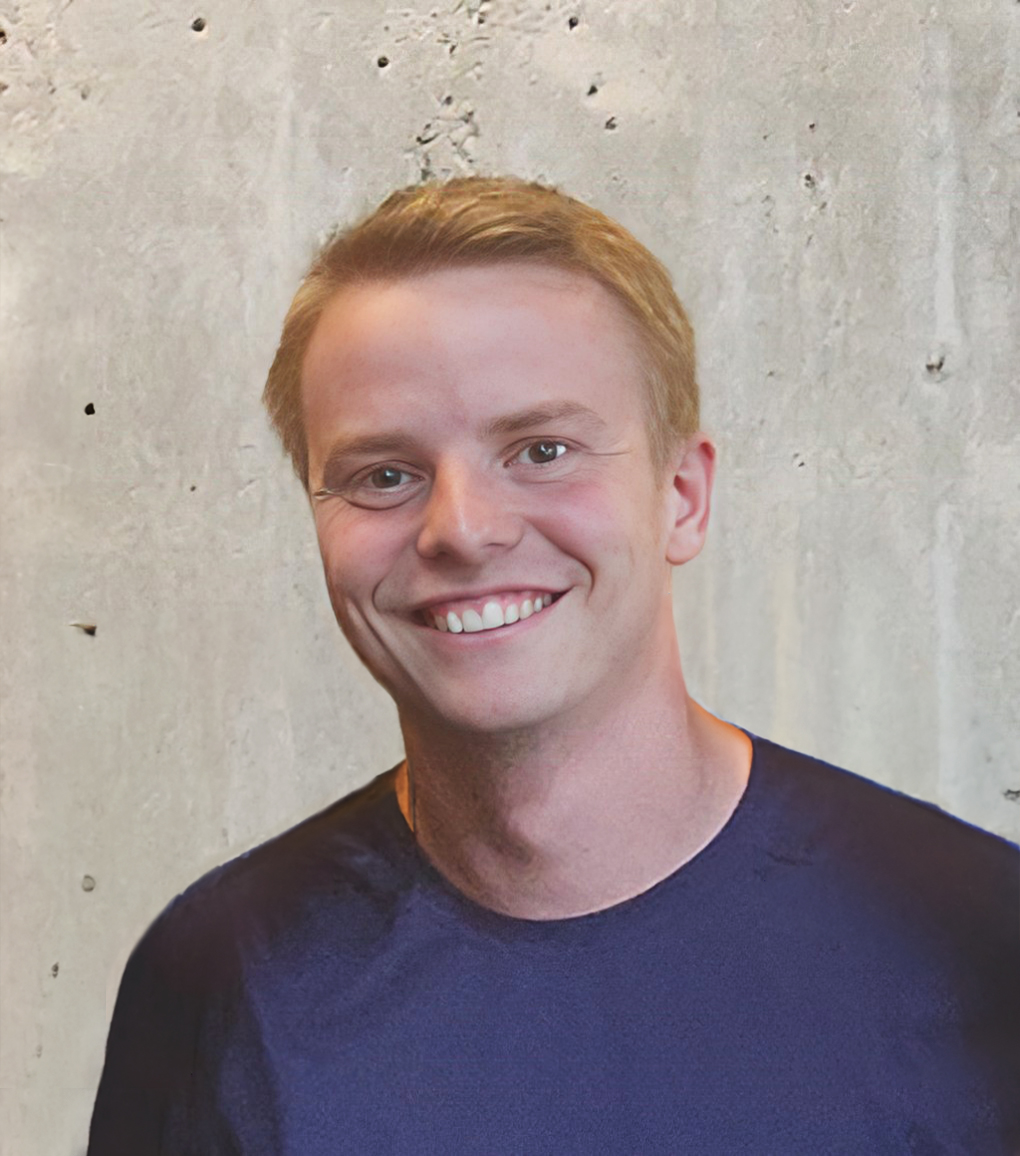
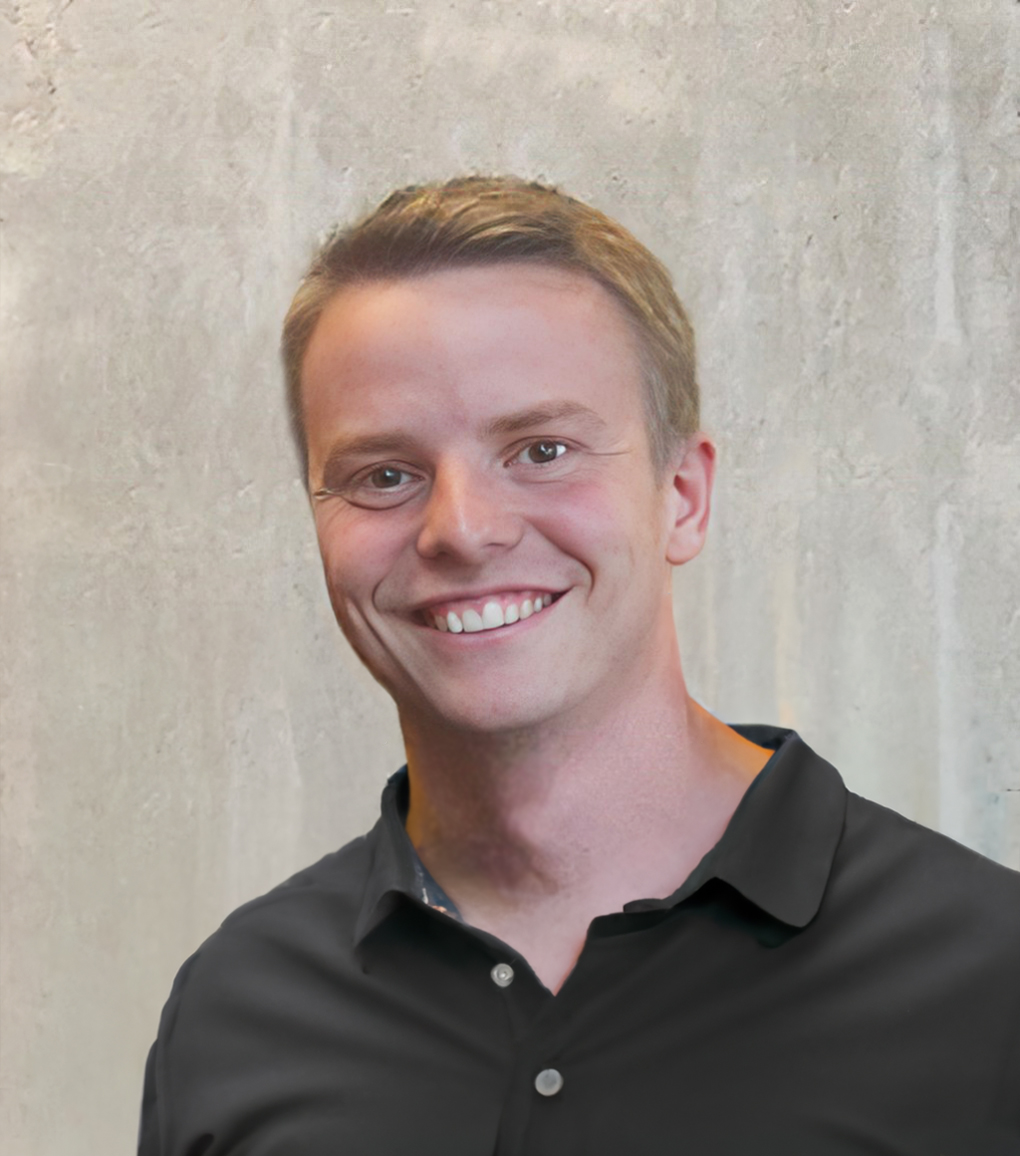
Removed dl button

diff --git a/index.html b/index.html
@@ -116,7 +116,7 @@
         <div class="col-six tab-full">
           <img
             class="intro-info-img"
-            src="images/pb4.jpg"
+            src="images/pb.jpg"
             alt="Profile Picture"
           />
           <p>
@@ -187,6 +187,7 @@
       </div>
 
       <!-- <div class="row button-section">
+		
         <div class="col-twelve">
           <a href="#" title="Download CV" class="button button-primary"
             >Download CV</a
